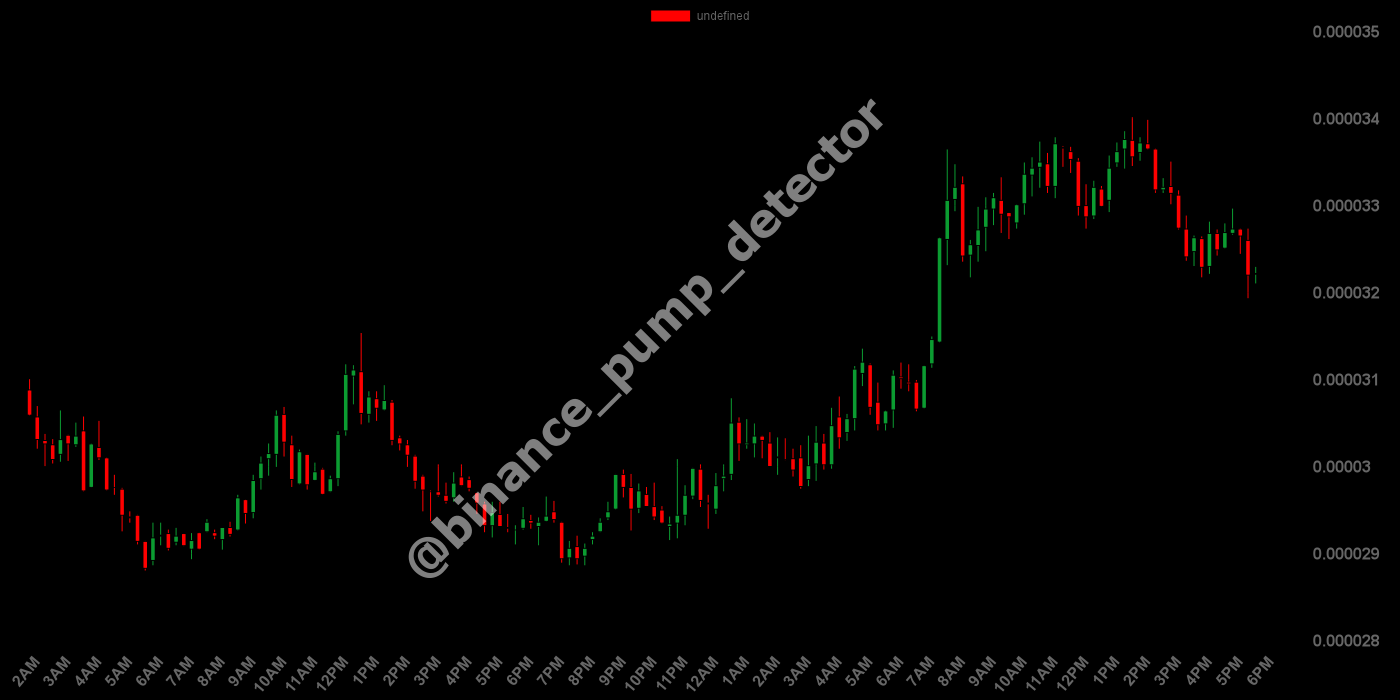
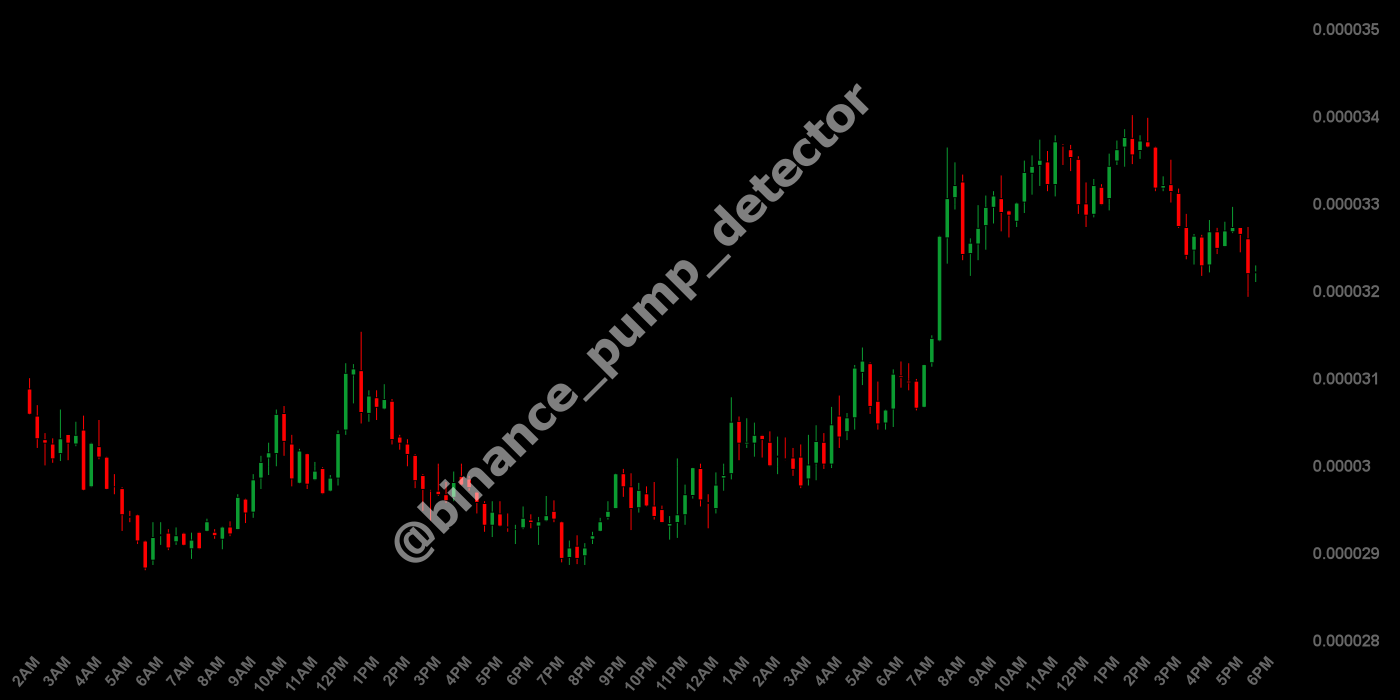
fix: deleted legend

diff --git a/chartGenerator.js b/chartGenerator.js
@@ -182,13 +182,18 @@ function createChart(chartData, watermarkText) {
                                         padding: 20,
                                         callback: function (value, index, values) {
                                             // Форматирование чисел без научной нотации
-                                            return value.toLocaleString('en-US', { maximumFractionDigits: 20 });
+                                            return value.toLocaleString('en-US', { maximumFractionDigits: 9 });
                                         }
                                     },
                                     suggestedMax: maxValue,
                                     suggestedMin: minValue,
                                 },
                             },
+                            plugins: {
+                                legend: {
+                                    display: false
+                                },
+                            }
                         },
                         plugins: [candleStick, watermark]
                     };

diff --git a/chartGenerator.ts b/chartGenerator.ts
@@ -146,13 +146,18 @@ async function createChart(chartData, watermarkText) {
 						padding: 20,
 						callback: function(value, index, values) {
 							// Форматирование чисел без научной нотации
-							return value.toLocaleString('en-US', { maximumFractionDigits: 20 });
+							return value.toLocaleString('en-US', { maximumFractionDigits: 9 });
 						}
 					},
 					suggestedMax: maxValue,
 					suggestedMin: minValue,
 				},
 			},
+			plugins: {
+				legend: {
+					display: false
+				},
+			}
 		},
 		plugins: [candleStick, watermark]
 	};
